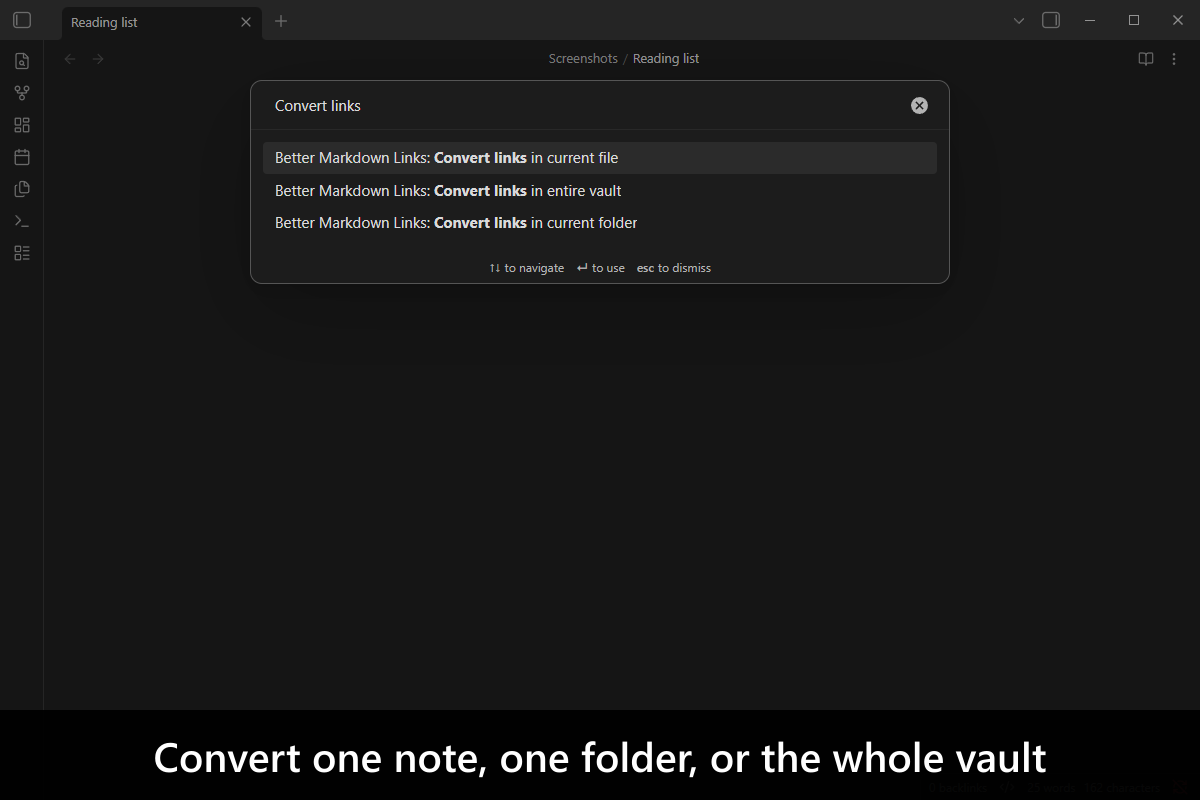
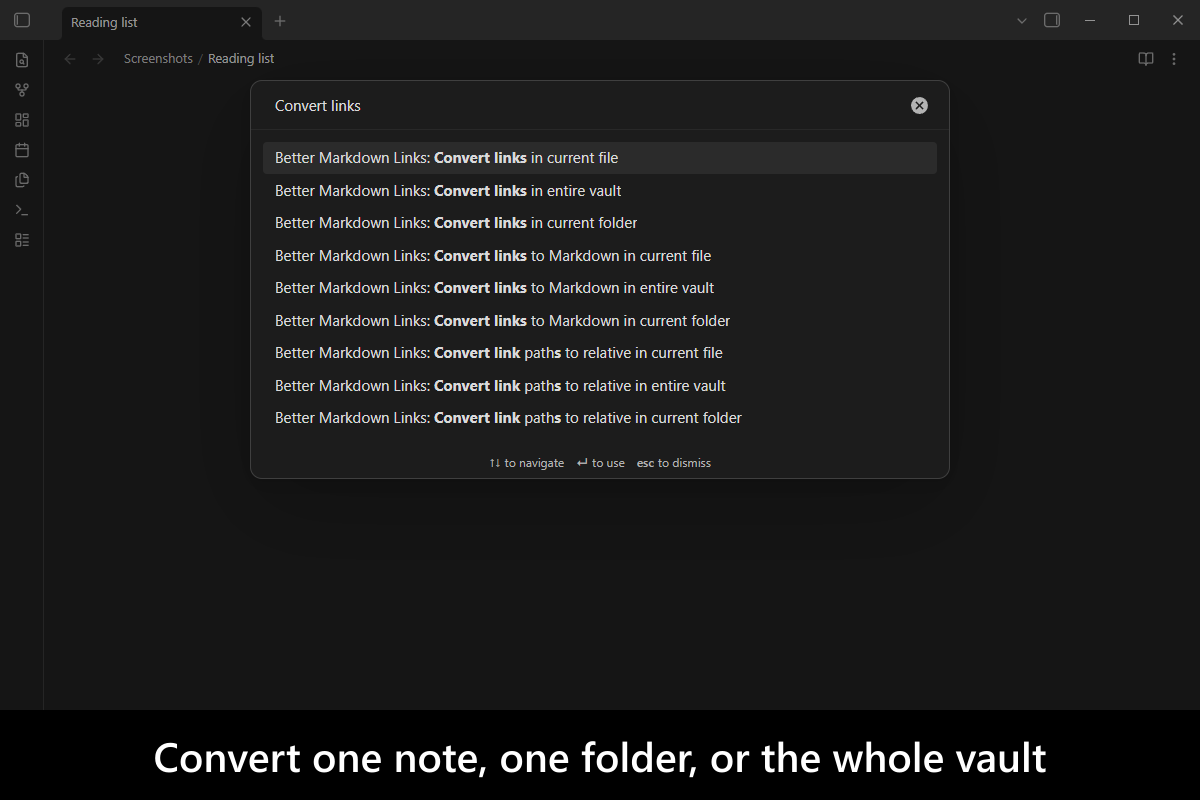
test(screenshots): decline the companion suggestion and hide the caret in the desktop capture
The desktop capture never declined the Advanced Rename and Delete Handler
suggestion, so its notice sat in the top-right corner of every frame. It now
declines it through the UI exactly as the mobile capture does, waiting for the
notice first since a fresh vault always shows it, and parks the pointer off the
view header the close click left it over.

Each shot now blurs the focused field first, so no frame catches the blinking
caret. Three back-to-back captures are byte-identical.

The re-shot frames also pick up Obsidian's own chrome changes since August and
the three Convert link paths to relative commands in the palette frame.

diff --git a/src/screenshots.desktop-capture.integration.test.ts b/src/screenshots.desktop-capture.integration.test.ts
@@ -68,6 +68,21 @@ const PLAIN_NOTE_PATH = 'Screenshots/Second chapter.md';
 
 const IMAGES_DIRECTORY = join(process.cwd(), 'images', 'screenshots');
 
+/**
+ * The button that turns down the companion-plugin suggestion — see
+ * {@link declineCompanionPluginSuggestion}.
+ *
+ * The label comes from the shared library's own translations, so it is quoted here rather than
+ * constructed.
+ */
+const SUGGESTION_DECLINE_LABEL = 'Not now';
+
+/**
+ * The `aria-label` on the close button the shared library appends to a notice that requires an explicit
+ * close. The button carries an icon rather than text, so the label is the only thing to match on.
+ */
+const SUGGESTION_CLOSE_ARIA_LABEL = 'Close';
+
 beforeAll(async () => {
   const vault = getTemporaryVault();
 
@@ -120,6 +135,8 @@ beforeAll(async () => {
     input: { subjectNotePath: SUBJECT_NOTE_PATH },
     vaultPath: vaultPath()
   });
+
+  await declineCompanionPluginSuggestion();
 });
 
 describe('desktop store screenshots', () => {
@@ -144,6 +161,33 @@ describe('desktop store screenshots', () => {
     await shoot(3, 'Convert one note, one folder, or the whole vault');
   });
 });
+
+/**
+ * Takes focus off whatever field holds it, so the frame carries no caret.
+ *
+ * The caret blinks, so a frame showing a focused field — the editor in frames 1 and 2, the palette input
+ * in frame 3 — caught it on some captures and not on others, and no re-shoot reproduced the committed
+ * frame. A field without focus draws no caret at all, and nothing else in these frames depends on focus:
+ * the palette keeps its filtered list and its highlighted row. Blurring rather than painting the caret
+ * out, because an injected stylesheet and an inline style are both refused by the shared lint config.
+ *
+ * @returns A {@link Promise} that resolves once nothing is focused.
+ */
+async function blurFocusedField(): Promise<void> {
+  await evalInObsidian({
+    async callback() {
+      const SETTLE_DELAY_IN_MILLISECONDS = 300;
+
+      const focusedEl = activeDocument.activeElement;
+      if (focusedEl?.instanceOf(HTMLElement)) {
+        focusedEl.blur();
+      }
+
+      await sleep(SETTLE_DELAY_IN_MILLISECONDS);
+    },
+    vaultPath: vaultPath()
+  });
+}
 
 /**
  * Builds the staged note.
@@ -201,6 +245,76 @@ async function convertLinksInNote(): Promise<string> {
       return await app.vault.read(file);
     },
     input: { pluginId: PLUGIN_ID, subjectNotePath: SUBJECT_NOTE_PATH },
+    vaultPath: vaultPath()
+  });
+}
+
+/**
+ * Dismisses the companion-plugin suggestion, so it is not in the frames.
+ *
+ * On load the plugin offers to install Advanced Rename and Delete Handler, through a notice carrying
+ * `Install and enable` / `Not now` and a close button. The temp vault holds only this plugin and no
+ * `data.json`, so the offer always fires, and it sat in the top-right corner of every frame. The mobile
+ * suite declines it the same way, through the UI, so the two suites cannot drift into suppressing it
+ * differently.
+ *
+ * **Two clicks, and both are needed.** `Not now` records the decline so the offer does not return, but
+ * it deliberately does not take the notice off screen: the suggestion is shown with
+ * `shouldHideOnClick: false`, so only the close button removes it.
+ *
+ * **Unlike the mobile copy, this one WAITS for the notice before clicking.** The desktop temp vault is
+ * fresh on every run, so the notice is certain to come; the suggestion is decided only once the plugin
+ * has read its settings, and a helper that found nothing yet and returned would let the notice land
+ * afterwards, straight into frame 1.
+ *
+ * @returns A {@link Promise} that resolves once the suggestion is off screen.
+ */
+async function declineCompanionPluginSuggestion(): Promise<void> {
+  await evalInObsidian({
+    async callback({ closeLabel, declineLabel, lib: { clickElement, moveMouse, waitUntil } }) {
+      // Two waits share the transport's ~30s per-closure cap, so each stays well under half of it.
+      const NOTICE_TIMEOUT_IN_MILLISECONDS = 10_000;
+
+      await waitUntil({
+        message: 'the suggestion notice to appear',
+        predicate: () => Boolean(findNoticeButton(declineLabel, null)),
+        timeoutInMilliseconds: NOTICE_TIMEOUT_IN_MILLISECONDS
+      });
+
+      const declineButton = findNoticeButton(declineLabel, null);
+      if (declineButton) {
+        await clickElement({ element: declineButton });
+      }
+
+      const closeButton = findNoticeButton(null, closeLabel);
+      if (closeButton) {
+        await clickElement({ element: closeButton });
+      }
+
+      // Waits for THIS notice to go rather than for the notice area to empty, so an unrelated notice
+      // cannot hold the wait open.
+      await waitUntil({
+        message: 'the suggestion notice to close',
+        predicate: () => !findNoticeButton(declineLabel, null),
+        timeoutInMilliseconds: NOTICE_TIMEOUT_IN_MILLISECONDS
+      });
+
+      // The close button sat right over the view header's `More options` button, and the trusted click left
+      // the pointer there, so frame 1 came out with that button hovered on some captures and not on
+      // others. Parking the pointer over the empty lower half of the editor hovers nothing that paints.
+      const EMPTY_AREA_HEIGHT_FRACTION = 0.75;
+      await moveMouse({ x: Math.round(window.innerWidth / 2), y: Math.round(window.innerHeight * EMPTY_AREA_HEIGHT_FRACTION) });
+
+      function findNoticeButton(text: null | string, ariaLabel: null | string): HTMLElement | null {
+        const button = [...document.querySelectorAll('.notice button')].find((candidate) =>
+          (text === null || candidate.textContent === text)
+          && (ariaLabel === null || candidate.getAttribute('aria-label') === ariaLabel)
+        );
+
+        return button instanceof HTMLElement ? button : null;
+      }
+    },
+    input: { closeLabel: SUGGESTION_CLOSE_ARIA_LABEL, declineLabel: SUGGESTION_DECLINE_LABEL },
     vaultPath: vaultPath()
   });
 }
@@ -292,6 +406,8 @@ async function openNote(): Promise<string> {
  * @param caption - The caption drawn across the bottom of the frame.
  */
 async function shoot(index: number, caption: string): Promise<void> {
+  await blurFocusedField();
+
   const bytes = await captureObsidianScreenshot({
     heightInPixels: HEIGHT_IN_PIXELS,
     vaultPath: vaultPath(),
